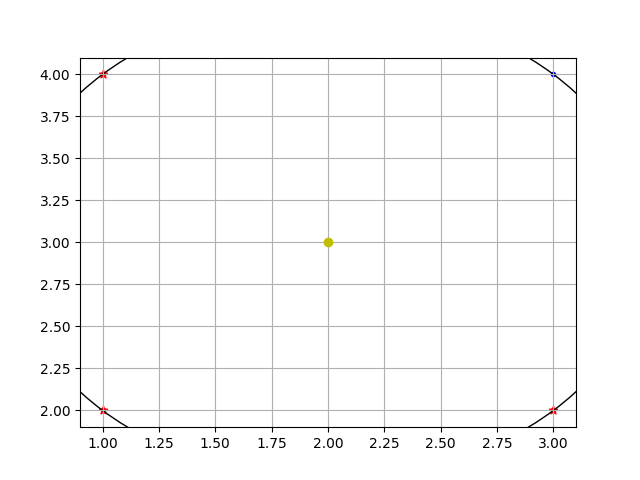
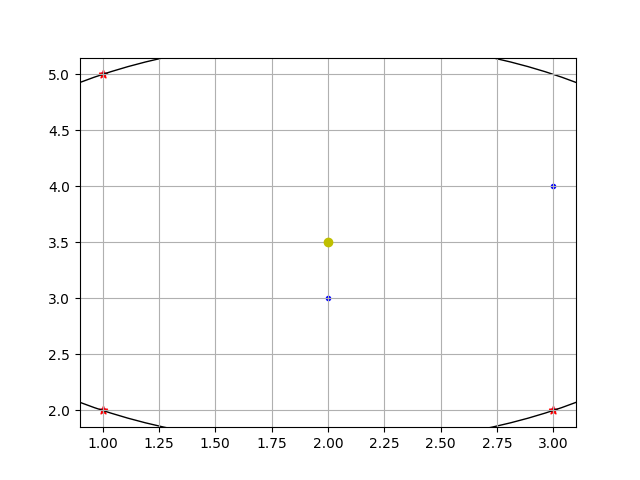
Updated minimum_disk_check problem

diff --git a/app/src/minimum_disk_check/solver.py b/app/src/minimum_disk_check/solver.py
@@ -1,5 +1,6 @@
 import numpy as np
 from .util import Disc
+from .mindisc import find_min_disc
 
 
 def read_data(file_path_points: str, file_path_indexes: str) -> (list, list):
@@ -36,59 +37,57 @@ def solve(points, indexes):
     min_disc = None
     for j in range(len(indexes)):
         if len(indexes[j]) == 0:
-            print("zero way")
+            print("empty set")
+
             if len(points) == 0:
                 result.append(True)
                 if min_disc is None:
                     min_disc = Disc()
-            result.append(False)
+                    print("min_disc:", min_disc.to_string())
+            else:
+                result.append(False)
+            continue
+        elif len(indexes[j]) == 1:
+            print("one set")
+
+            if len(points) == 1:
+                result.append(True)
+                if min_disc is None:
+                    min_disc = Disc()
+                    min_disc.circumscribe_point(
+                        np.array(points[indexes[j]][0])
+                    )
+                    print("min_disc:", min_disc.to_string())
+            else:
+                result.append(False)
             continue
 
-        start_points = []
-        other_points = []
-        for i in range(len(points)):
-            if i in indexes[j]:
-                start_points.append(points[i])
-            else:
-                other_points.append(points[i])
+        if min_disc is None:
+            print("find min_disc")
+            min_disc = find_min_disc(list(points))
+            print("min_disc:", min_disc.to_string())
 
         disc = Disc()
+        start_points = [points[i] for i in indexes[j]]
 
-        if len(indexes[j]) == 1:
-            print("one way")
-            disc.circumscribe_point(np.array(start_points[0]))
-
-        elif len(indexes[j]) == 2:
-            print("two way")
-            disc.circumscribe_diameter(np.array(start_points[0]), np.array(start_points[1]))
-            for other_point in other_points:
-                other_point = np.array(other_point)
-                if not disc.is_contain(other_point):
-                    disc.circumscribe_triangle(
-                        np.array(start_points[0]), np.array(start_points[1]), other_point
-                    )
-
+        if len(indexes[j]) == 2:
+            print("two points")
+            disc.circumscribe_diameter(
+                np.array(start_points[0]), np.array(start_points[1])
+            )
         elif len(indexes[j]) == 3:
-            print("three way")
+            print("three points")
             if not disc.circumscribe_triangle(
-                    np.array(start_points[0]), np.array(start_points[1]), np.array(start_points[2])
+                np.array(start_points[0]), np.array(start_points[1]), np.array(start_points[2])
             ):
                 result.append(False)
                 continue
-
         else:
-            print("Error")
-            return None
+            print("Error: wrong indexes")
+            return None, None
 
-        while len(other_points) > 0:
-            other_point = np.array(other_points.pop())
-            if not disc.is_contain(other_point):
-                result.append(False)
-                break
-
-        if len(result) == j:
+        if not min_disc.is_equal(disc):
+            result.append(False)
+        else:
             result.append(True)
-
-            if min_disc is None:
-                min_disc = disc
     return result, min_disc

diff --git a/app/src/minimum_disk_check/util.py b/app/src/minimum_disk_check/util.py
@@ -39,6 +39,12 @@ class Disc:
         s_2 = get_s_2(a1, a2, a3)
         if s_2 < TOLERANCE:
             print("This is line")
+            if a1 > a2 and a1 > a3:
+                self.circumscribe_diameter(p2, p3)
+            elif a2 > a1 and a2 > a3:
+                self.circumscribe_diameter(p1, p3)
+            else:
+                self.circumscribe_diameter(p1, p2)
             return False
 
         s = np.sqrt(s_2)
@@ -52,13 +58,32 @@ class Disc:
         print(self.center, self.radius)
         return True
 
-    def is_contain(self, point: np.array) -> bool:
+    def is_contain(self, point: np.array) -> int:
         distance = get_distance(self.center, point)
-        diff = distance - self.radius
+        diff = self.radius - distance
         if diff > TOLERANCE:
-            return False
+            return 1
+        elif diff < -TOLERANCE:
+            return -1
         else:
+            return 0
+
+    def is_equal(self, disc) -> bool:
+        diff_center = get_distance(self.center, disc.center)
+        diff_radius = np.abs(self.radius - disc.radius)
+
+        if diff_center <= TOLERANCE and diff_radius <= TOLERANCE:
             return True
+        else:
+            return False
+
+    def to_string(self):
+        if self.center is None:
+            return "empty set"
+        elif self.radius <= TOLERANCE:
+            return f"point: {self.center}"
+        else:
+            return f"center: {self.center}, r: {self.radius}"
 
     def plot(self, figure=None, ax=None):
         if self.center is None:

diff --git a/app/src/minimum_disk_check/mindisc.py b/app/src/minimum_disk_check/mindisc.py
@@ -1,0 +1,38 @@
+import random
+import numpy as np
+from .util import Disc
+
+
+def find_min_disc(points):
+    random.shuffle(points)
+    disc = Disc()
+    disc.circumscribe_diameter(np.array(points[0]), np.array(points[1]))
+    for i in range(2, len(points)):
+        if disc.is_contain(np.array(points[i])) < 0:
+            disc = min_disc_with_point(list(points[0:i]), points[i])
+    return disc
+
+
+def min_disc_with_point(points, q):
+    random.shuffle(points)
+    disc = Disc()
+    disc.circumscribe_diameter(np.array(points[0]), np.array(q))
+    for i in range(1, len(points)):
+        if disc.is_contain(np.array(points[i])) < 0:
+            disc = min_disc_with_2_points(list(points[0:i]), points[i], q)
+    return disc
+
+
+def min_disc_with_2_points(points, q1, q2):
+    disc = Disc()
+    disc.circumscribe_diameter(np.array(q1), np.array(q2))
+    for i in range(len(points)):
+        if disc.is_contain(np.array(points[i])) < 0:
+            disc.circumscribe_triangle(
+                np.array(points[i]), np.array(q1), np.array(q2)
+            )
+    return disc
+
+
+# def activate_min_disc(points, indexes):
+#     return None

diff --git a/app/apps.py b/app/apps.py
@@ -18,7 +18,7 @@ def minimum_disk_check(input_dir, output_dir, visual):
     if result is None:
         return
 
-    print(result)
+    print("result:", result)
 
     if visual:
         figure, axes = plt.subplots()
@@ -41,5 +41,4 @@ def minimum_disk_check(input_dir, output_dir, visual):
 
 
 if __name__ == '__main__':
-    visual = True
-    minimum_disk_check('/', '/', True)
+    minimum_disk_check('./res/mindisc', './res/mindisc', True)

diff --git a/README.md b/README.md
@@ -1,40 +1,51 @@
 # Computational geometry
 
 Solved problems:
-- minimum_disk_check 
+- minimum_disk_check
 
 ## Install and Build
 ```shell
+python -m venv venv
+source venv/bin/activate
 pip install -r requirements.txt
 ```
 
-## MinDisc
+## minimum_disk_check
 ```shell
 cd app
 python manage.py minimum_disk_check ./res/mindisc ./res/mindisc True
 ```
 
 Example:
-- `input_points.txt`
+- `input_points.txt` - points of set
   ```txt
   1.0 5.0
   2.0 3.0
   3.0 2.0
   3.0 4.0
+  1.0 2.0
   ```
-- `input_indexes.txt`
+- `input_indexes.txt` - indexes of points
   ```txt
   # comment
   empty
   0
   0 1
-  0 1 2
+  # min_disc
+  0 2
+  # line
+  4 1 3
+  # min_disc
+  0 2 4
   ```
 - `output.txt` - result for every indexes
   ```txt
   [] - False
   [0] - False
-  [0, 1] - True
-  [0, 1, 2] - True
+  [0, 2] - True
+  [4, 1, 3] - False
+  [0, 2, 4] - True
   ```
 - `mindisc_visual.png` - visualisation of last indexes
+
+  ![mindisc](mindisc/mindisc_visual.png)
